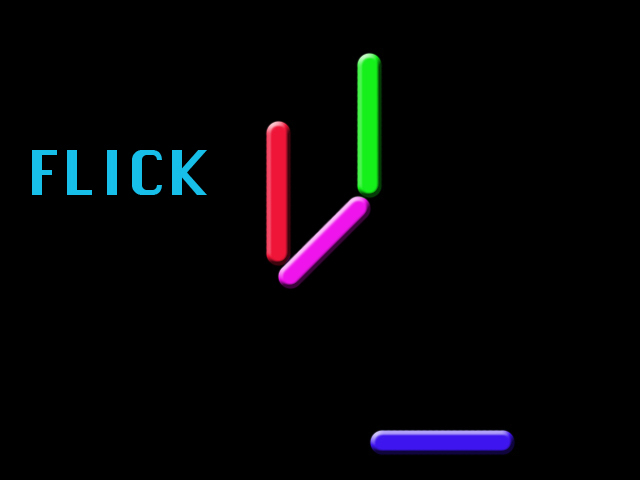
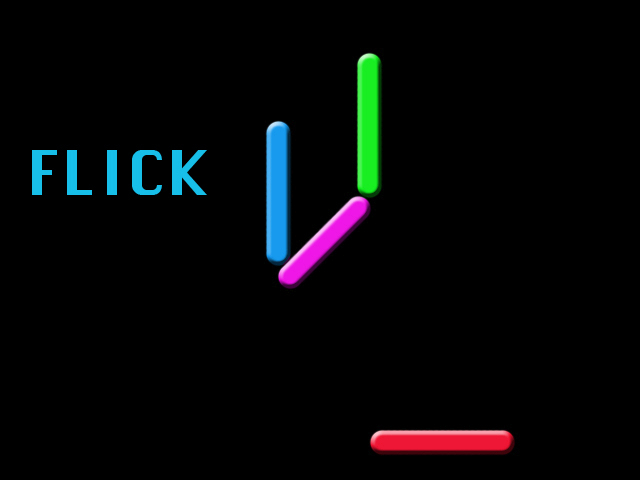
half of pictures colored

Changed region(s): [[0.5625, 0.875, 0.8125, 0.9688], [0.4062, 0.25, 0.4688, 0.5625]]

diff --git a/public/kaleidoskope.html b/public/kaleidoskope.html
@@ -1,100 +1,48 @@
-// Connect to the server
-var LOCAL_DEBUG = true; 
-var HOST = LOCAL_DEBUG ? 
-	'localhost' : 
-	'ec2-54-83-22-126.compute-1.amazonaws.com';
-var socket = io.connect(HOST);
+<!DOCTYPE HTML PUBLIC "-//W3C//DTD HTML 4.01//EN" "http://www.w3.org/TR/html4/strict.dtd">
 
-// Message Type Definitions
-var ServerMessage = {
-	ActiveLevel : "activelevel",  
-	LevelUp : "levelup",
-	Quiz : "quiz"
-};
+<html lang="en">
 
-var ScoreClientMessage = {
-	Connection : "scoreconnection",
-	ScoreDeltas : "scoredeltas",
-	EffortDeltas : "effortdeltas" 
-};
+<head>
+	<title>Kaleidoscope</title>
+	<meta http-equiv="content-type" content="text/html;charset=ISO-8859-1">
+	<meta http-equiv="content-language" content="en">
+	<meta name="description" content="Test">
+	<meta name="keywords" content="iphone,ipod touch,ipod,touch,apple webapps,apple,webapps,graphic,design,visual,effect,animation,particle,code,javascript,canvas">
+	<meta name="author" content="REZ">
+	<meta name="generator" content="REZ">
+	<meta name="version" content="0.4">
+	<meta name="copyright" content="REZ 2008">
+	<meta name="robots" content="all">
+	<meta name="viewport" content="width=device-width,user-scalable=0,initial-scale=1.0,minimum-scale=1.0,maximum-scale=1.0">
 
-// State Variables
-var ACTIVE_LEVEL = 0;
-var SCORES = {"illinois" : 0, "irvine" : 0};
-var EFFORT_SCORES = [0, 0, 0, 0, 0, 0, 0, 0];
-var CURRENT_TEAM = "illinois";
+	<script src="http://code.jquery.com/jquery-1.10.1.min.js"></script>
+	<script src="http:////netdna.bootstrapcdn.com/bootstrap/3.1.1/js/bootstrap.min.js"></script>  
+	<script src="../res/js/barGraph.js"></script>
+	<script src="/socket.io/socket.io.js"></script>
 
-$(document).ready(function() {
-	var ctx = $("#bar_canvas")[0].getContext("2d");
-	
-	var graph = new BarGraph(ctx);
-	graph.width = screen.availWidth / 2;
-	graph.height = 450;
-	graph.maxValue = 20;
-	graph.margin = 2;
-	graph.colors = ["green", "red", "blue", "yellow"];
+	<!-- Our Scripts -->
+	<script src="../res/js/scoreboard_setup.js"></script>
+	<!-- End: Our Scripts -->
 
-	// Effort order taken from index.html
-	graph.xAxisLabelArr = 
-		["Flick", "Dab", "Float", "Glide", "Press", "Slash", "Thrust", "Wring"];
-	graph.update([0, 0, 0, 0, 0, 0, 0, 0]);
-
-	$("#bar_canvas").css(
-		"color", "white", 
-		"background-color", "black"
-	);
-
-	// Notify the server you're the scoreboard
-	socket.emit(ScoreClientMessage.Connection);
-
-	socket.on(ServerMessage.ActiveLevel, function (data) {
-		console.log('scoreboard: active level message');
-		ACTIVE_LEVEL = data.Level;
-	});
-
-	socket.on(ServerMessage.LevelUp, function (data) {
-		console.log('scoreboard: level up message');
-		ACTIVE_LEVEL = data.Level;
-		// May want to do some checks here
-	});
-
-	socket.on(ScoreClientMessage.ScoreDeltas, function (data) {
-		console.log('scoreboard: score deltas message');
-		console.log(data.Deltas);
-		for (var team in data.Deltas) {
-			SCORES[team] += data.Deltas[team];
+	<style type="text/css">
+		body {
+			margin:0; padding:0; background-color:#000000;
+			-webkit-text-size-adjust:none; overflow:hidden
 		}
-		var animationUpdates = 0;
-		var resetLoop = setInterval(function() {
-			if (animationUpdates >= SCORES[CURRENT_TEAM]) {
-				clearInterval(resetLoop);
-			}
-			reset();
-			animationUpdates += 1;
-		}, 500);
-		$('#illinois-score').text(SCORES['illinois']);
-		$('#irvine-score').text(SCORES['irvine']);
-	});	
-
-	socket.on(ScoreClientMessage.HistogramDeltas, function (data) {
-		console.log('scoreboard: histogram deltas message');
-		console.log(data.Deltas);
-
-		if (!data.Deltas || !data.Deltas.length) {
-			return;
+		/*
+		div {
+			margin:0;padding:0;position:absolute;font-size:0;overflow:hidden
 		}
-		else {
-			var NEW_SCORES = [0, 0, 0, 0, 0, 0, 0, 0]
-			for (var i = 0; i < data.Deltas.length; i += 1) {
-				EFFORT_SCORES[i] += data.Deltas[i];
-				NEW_SCORES[i] = (EFFORT_SCORES[i] < 0 ? 0 : EFFORT_SCORES[i]);
-			}
-			console.log("new histogram values");
-			graph.update(NEW_SCORES);
+		*/
+		canvas {
+			background-color:#000000;
+			overflow:hidden
 		}
-	});
-});	
+	</style>
 
+</head>
+
+<script type="text/javascript">
 	function $i(id) { return document.getElementById(id); }
 	function $c(code) { return String.fromCharCode(code); }
 
@@ -284,3 +232,30 @@ $(document).ready(function() {
 			}
 		top.status='$'+key+'='+$c(key);
 	}
+</script>
+
+<body onload="resize()">
+    <!-- Effort Graph -->
+	<div id="graph" align="center" vertical-align="middle" style="position:absolute; left:25%; top:40%;">
+		<canvas id="bar_canvas" style="background-color:#000"></canvas>
+	</div>
+	<!-- End: Effort Graph -->
+
+	<!-- Animation Element -->
+	<div id="screen" style="background-color:#000000; display:none;">
+		<canvas id="shadebob"></canvas>
+	</div>
+	<!-- End: Animation Element -->
+
+	<!-- Scores (must be last to overlay any graphics)-->
+    <div id="illinois-score-container" style="position:fixed; left:25px; top:10px;">
+        <img src="/res/images/logos/illinois_black_scaled.jpg" class="team" team="illinois">
+       	<h2 id="illinois-score" align="center" style="color:white;">0</h2>
+    </div>
+    <div id="irvine-score-container" style="position:fixed; right:25px; top:10px;">
+        <img src="/res/images/logos/irvine_black_scaled.jpg" class="team" team="irvine">          
+        <h2 id="irvine-score" align="center" style="color:#ffba22;">0</h2>
+    </div>
+    <!-- End: Scores -->
+</body>
+</html>

diff --git a/public/index.html b/public/index.html
@@ -56,15 +56,15 @@
                             <img src="/res/images/laban_effort_shape/flick-word-colored.jpg" class="effort" effortid="0">
                         </div>
                         <div class="col-xs-6 ">
-                            <img src="/res/images/laban_effort_shape/dab-word.jpg" class="effort" effortid="1">
+                            <img src="/res/images/laban_effort_shape/dab-word-colored.jpg" class="effort" effortid="1">
                         </div>
                     </div>
                     <div class="row">
                         <div class="col-xs-6 ">
-                            <img src="/res/images/laban_effort_shape/float-word.jpg" class="effort" effortid="2">
+                            <img src="/res/images/laban_effort_shape/float-word-colored.jpg" class="effort" effortid="2">
                         </div>
                         <div class="col-xs-6 ">
-                            <img src="/res/images/laban_effort_shape/glide-word.jpg" class="effort" effortid="3">
+                            <img src="/res/images/laban_effort_shape/glide-word-colored.jpg" class="effort" effortid="3">
                         </div>
                     </div>
                     <div class="row">
